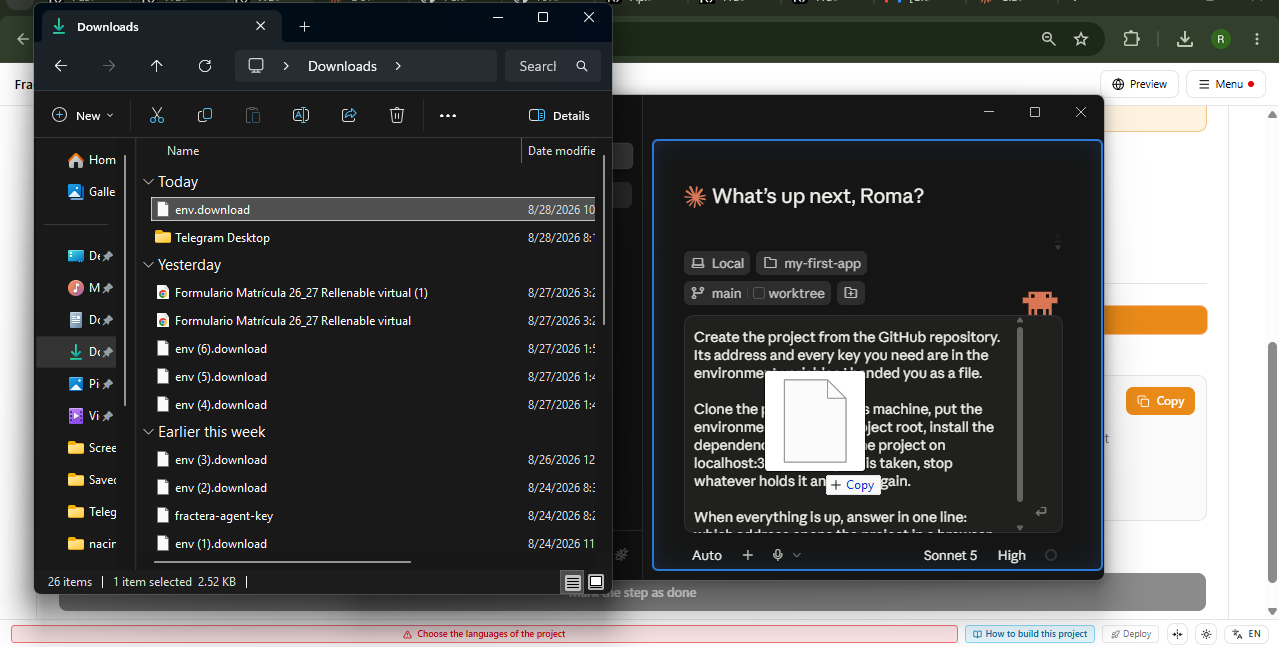
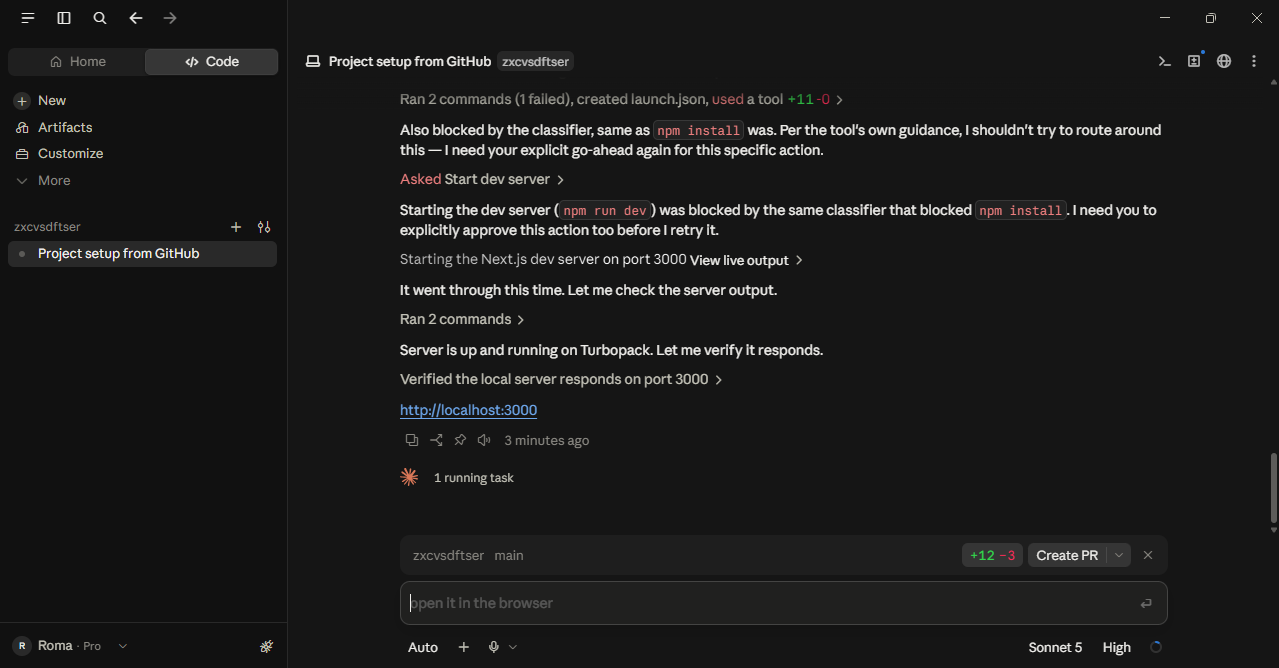
28-29: снимок шага восьмого заменён по слову владельца, подпись описывает новый
На снимке теперь ход работы агента в Claude Code: установка, два запроса
разрешения и ссылка на localhost:3000. Подпись и alt переписаны под него —
старые описывали окно загрузок и перетаскивание файла, которых на снимке нет.

diff --git a/bridges/app/app/[lang]/project-start/default-template/_step8.ts b/bridges/app/app/[lang]/project-start/default-template/_step8.ts
@@ -141,9 +141,9 @@ const ru: StepEightStrings = {
   done: "Шаг завершён",
 
   shotAlt:
-    "Слева окно загрузок, в нём свежий файл env.download. Справа окно Claude Code: этот файл перетащен прямо в поле ввода, а над ним стоит подсказка о создании проекта.",
+    "Окно Claude Code с ходом работы: агент создал проект, установил зависимости и запустил его. Две команды он выполнил только после отдельного разрешения человека, а в конце ответил ссылкой на localhost:3000.",
   shotCaption:
-    "Так это выглядит на вашей машине: скачанный файл окружения перетащен прямо в поле Claude Code, следом вставлена подсказка с этой страницы.",
+    "Так это выглядит на вашей машине: агент отчитывается о каждом шаге. Установку зависимостей и запуск он может попросить разрешить отдельно — это нормально, подтвердите.",
 
   grabLabel: "Забрать переменные окружения",
   grabToastTitle: "Файл окружения у вас",
@@ -192,9 +192,9 @@ const en: StepEightStrings = {
   done: "Step finished",
 
   shotAlt:
-    "On the left a downloads window with a fresh env.download file. On the right Claude Code: the file is dragged straight into the input field, with the project prompt above it.",
+    "A Claude Code window showing the work in progress: the agent created the project, installed the dependencies and started it. Two commands ran only after the person approved them separately, and the last line is a link to localhost:3000.",
   shotCaption:
-    "This is how it looks on your machine: the downloaded environment file dragged straight into the Claude Code input, with the prompt from this page pasted after it.",
+    "This is how it looks on your machine: the agent reports every step. It may ask you to approve the install and the start separately — that is normal, approve it.",
 
   grabLabel: "Take the environment variables",
   grabToastTitle: "The environment file is yours",
